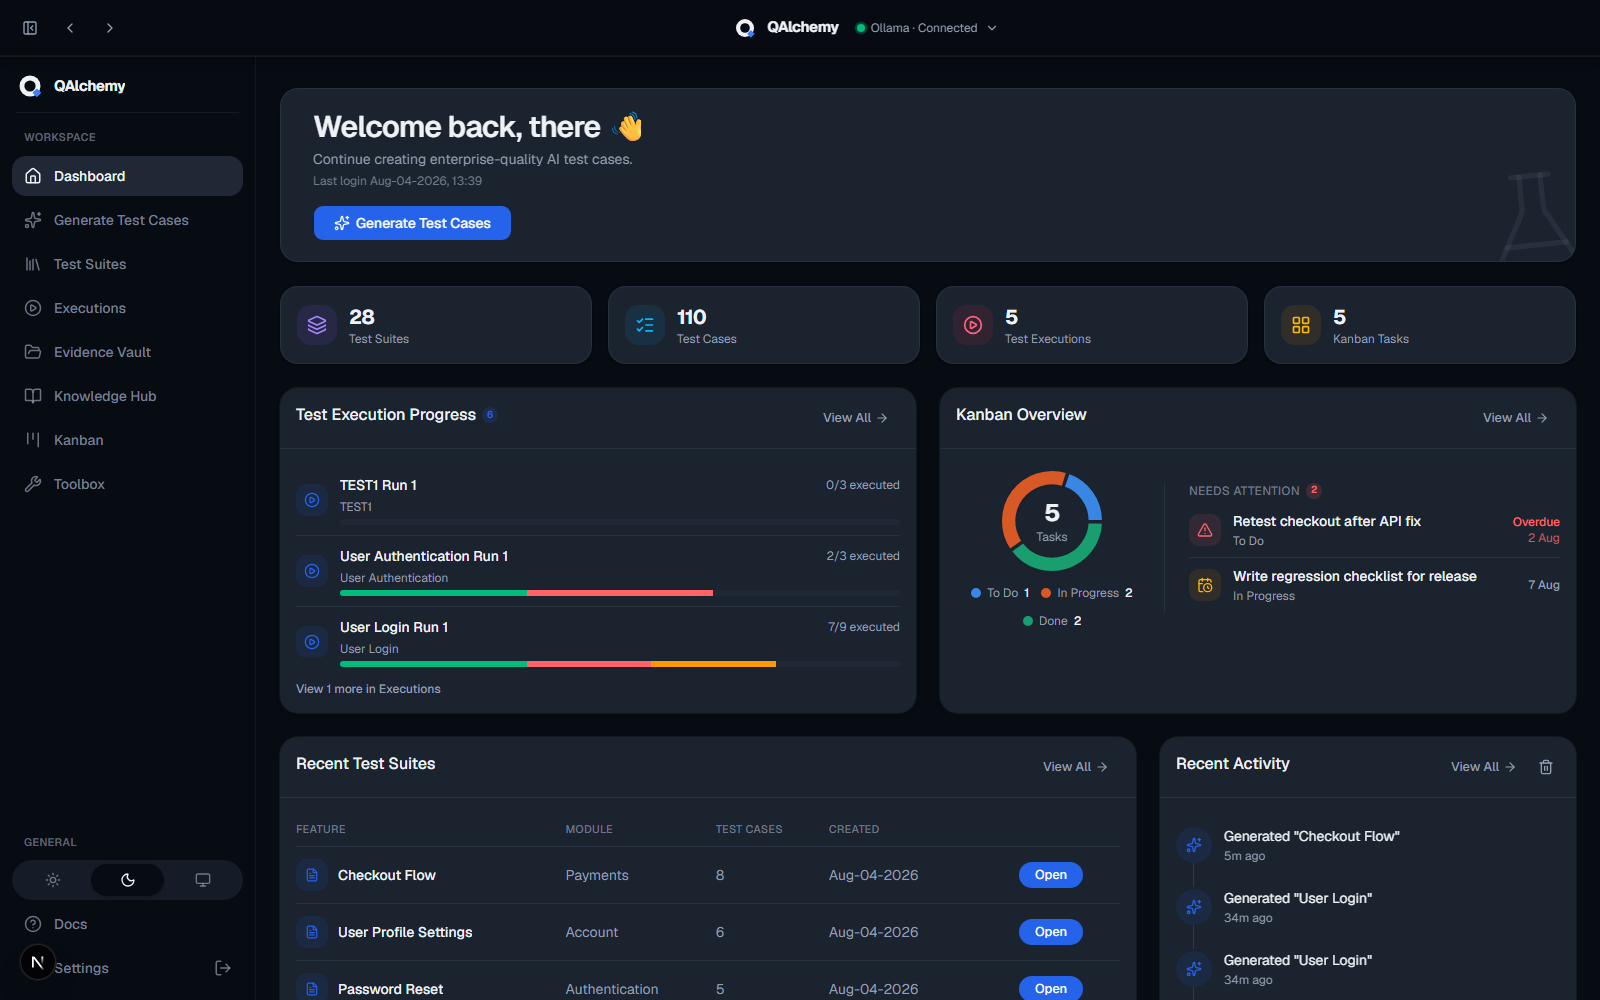
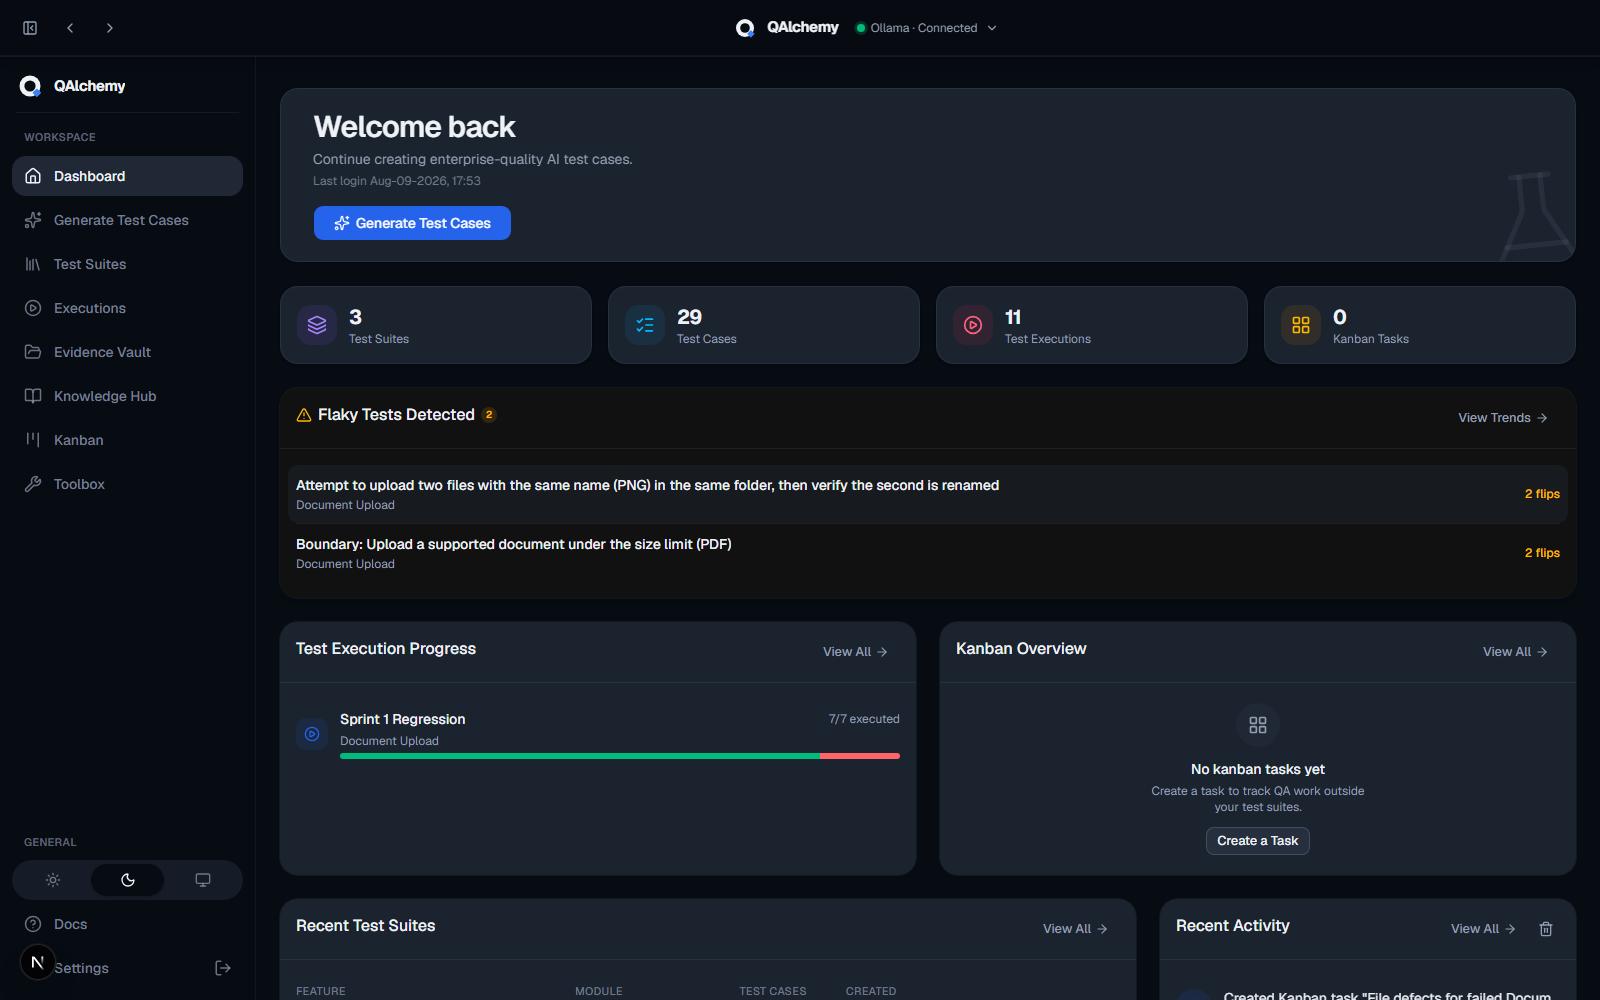
Replace stacked hero screenshots with a single rotating browser frame
The rotated/stacked screenshot cards in the hero read as dated. Swapped
in one clean browser-framed screenshot that auto-rotates through
Generate Test Cases, Dashboard, Trends, and Execution Workspace, with
the URL bar label updating in sync. Also refreshes the dashboard and
generate screenshots to match the current UI.

diff --git a/assets/css/main.css b/assets/css/main.css
@@ -253,10 +253,6 @@ a.mobile-cta{ display:none; }
   .hero-actions{ justify-content:center; }
   .hero-visual{ margin-top: 56px; }
 }
-.hero-stack{ position:relative; animation: hero-shot-float 7s ease-in-out infinite; }
-@keyframes hero-shot-float{ 0%,100%{ transform: translateY(0); } 50%{ transform: translateY(-14px); } }
-@media (prefers-reduced-motion: reduce){ .hero-stack{ animation: none; } }
-
 .hero-shot-main{
   border-radius: var(--radius-lg); overflow:hidden; border:1px solid var(--border);
   box-shadow: var(--shadow-lg); background: var(--surface-solid); position:relative; z-index:3;
@@ -270,19 +266,19 @@ a.mobile-cta{ display:none; }
 .hero-shot-main .dots span:nth-child(1){ background: oklch(0.68 0.19 25); }
 .hero-shot-main .dots span:nth-child(2){ background: oklch(0.8 0.16 90); }
 .hero-shot-main .dots span:nth-child(3){ background: oklch(0.72 0.17 148); }
-.hero-shot-main .urlbar{ flex:1; text-align:center; font-size:0.78rem; color: var(--fg-faint); font-family: var(--font-mono); }
-.hero-shot-main img{ width:100%; display:block; aspect-ratio: 1600 / 1000; object-fit: cover; background: var(--bg-subtle); }
-
-.stack-shot{
-  position:absolute; inset:0; border-radius: var(--radius-lg); overflow:hidden;
-  border:1px solid var(--border); box-shadow: var(--shadow-md); background: var(--surface-solid);
+.hero-shot-main .urlbar{
+  flex:1; text-align:center; font-size:0.78rem; color: var(--fg-faint); font-family: var(--font-mono);
+  transition: opacity 0.25s ease;
 }
-.stack-shot img{ width:100%; height:100%; display:block; aspect-ratio: 1600 / 1000; object-fit: cover; object-position: top; background: var(--bg-subtle); }
-.stack-back-1{ z-index:2; transform: translate(16px, 16px) rotate(2.5deg) scale(0.98); opacity:.85; }
-.stack-back-2{ z-index:1; transform: translate(32px, 32px) rotate(5deg) scale(0.96); opacity:.6; }
-@media (max-width: 640px){
-  .stack-back-1{ transform: translate(10px, 10px) rotate(2deg) scale(0.98); }
-  .stack-back-2{ transform: translate(20px, 20px) rotate(4deg) scale(0.96); }
+
+.hero-carousel-frame{ position:relative; aspect-ratio: 1600 / 1000; background: var(--bg-subtle); }
+.hero-carousel-img{
+  position:absolute; inset:0; width:100%; height:100%; display:block; object-fit: cover; object-position: top;
+  opacity:0; transition: opacity 0.6s ease;
+}
+.hero-carousel-img.is-active{ opacity:1; }
+@media (prefers-reduced-motion: reduce){
+  .hero-carousel-img, .hero-shot-main .urlbar{ transition: none; }
 }
 
 /* ---------------- Sections ---------------- */

diff --git a/index.html b/index.html
@@ -93,20 +93,17 @@
       </div>
 
       <div class="hero-visual reveal">
-        <div class="hero-stack">
-          <div class="stack-shot stack-back-2">
-            <img src="assets/screenshots/suites.png" alt="QAlchemy Test Suites screen">
+        <div class="hero-shot-main" id="hero-carousel">
+          <div class="browserbar">
+            <div class="dots"><span></span><span></span><span></span></div>
+            <div class="urlbar" id="hero-carousel-label">QAlchemy: Generate Test Cases</div>
+            <div style="width:40px"></div>
           </div>
-          <div class="stack-shot stack-back-1">
-            <img src="assets/screenshots/results-overview.png" alt="QAlchemy AI analysis overview">
-          </div>
-          <div class="hero-shot-main">
-            <div class="browserbar">
-              <div class="dots"><span></span><span></span><span></span></div>
-              <div class="urlbar">QAlchemy: Generate Test Cases</div>
-              <div style="width:40px"></div>
-            </div>
-            <img src="assets/screenshots/generate.png" alt="QAlchemy Generate Test Cases screen">
+          <div class="hero-carousel-frame">
+            <img src="assets/screenshots/generate.png" alt="QAlchemy Generate Test Cases screen" class="hero-carousel-img is-active" data-label="QAlchemy: Generate Test Cases">
+            <img src="assets/screenshots/dashboard.png" alt="QAlchemy Dashboard screen" class="hero-carousel-img" data-label="QAlchemy: Dashboard">
+            <img src="assets/screenshots/trends.png" alt="QAlchemy Trends screen" class="hero-carousel-img" data-label="QAlchemy: Executions / Trends">
+            <img src="assets/screenshots/executor.png" alt="QAlchemy Test Execution Workspace screen" class="hero-carousel-img" data-label="QAlchemy: Execution Workspace">
           </div>
         </div>
       </div>

diff --git a/assets/js/main.js b/assets/js/main.js
@@ -293,4 +293,20 @@
       });
     }
   }
+
+  // Hero screenshot carousel
+  var heroCarousel = document.getElementById('hero-carousel');
+  if (heroCarousel) {
+    var heroImgs = Array.prototype.slice.call(heroCarousel.querySelectorAll('.hero-carousel-img'));
+    var heroLabel = document.getElementById('hero-carousel-label');
+    var heroIndex = 0;
+    if (heroImgs.length > 1 && !window.matchMedia('(prefers-reduced-motion: reduce)').matches) {
+      setInterval(function () {
+        heroImgs[heroIndex].classList.remove('is-active');
+        heroIndex = (heroIndex + 1) % heroImgs.length;
+        heroImgs[heroIndex].classList.add('is-active');
+        if (heroLabel) heroLabel.textContent = heroImgs[heroIndex].getAttribute('data-label');
+      }, 3800);
+    }
+  }
 })();
